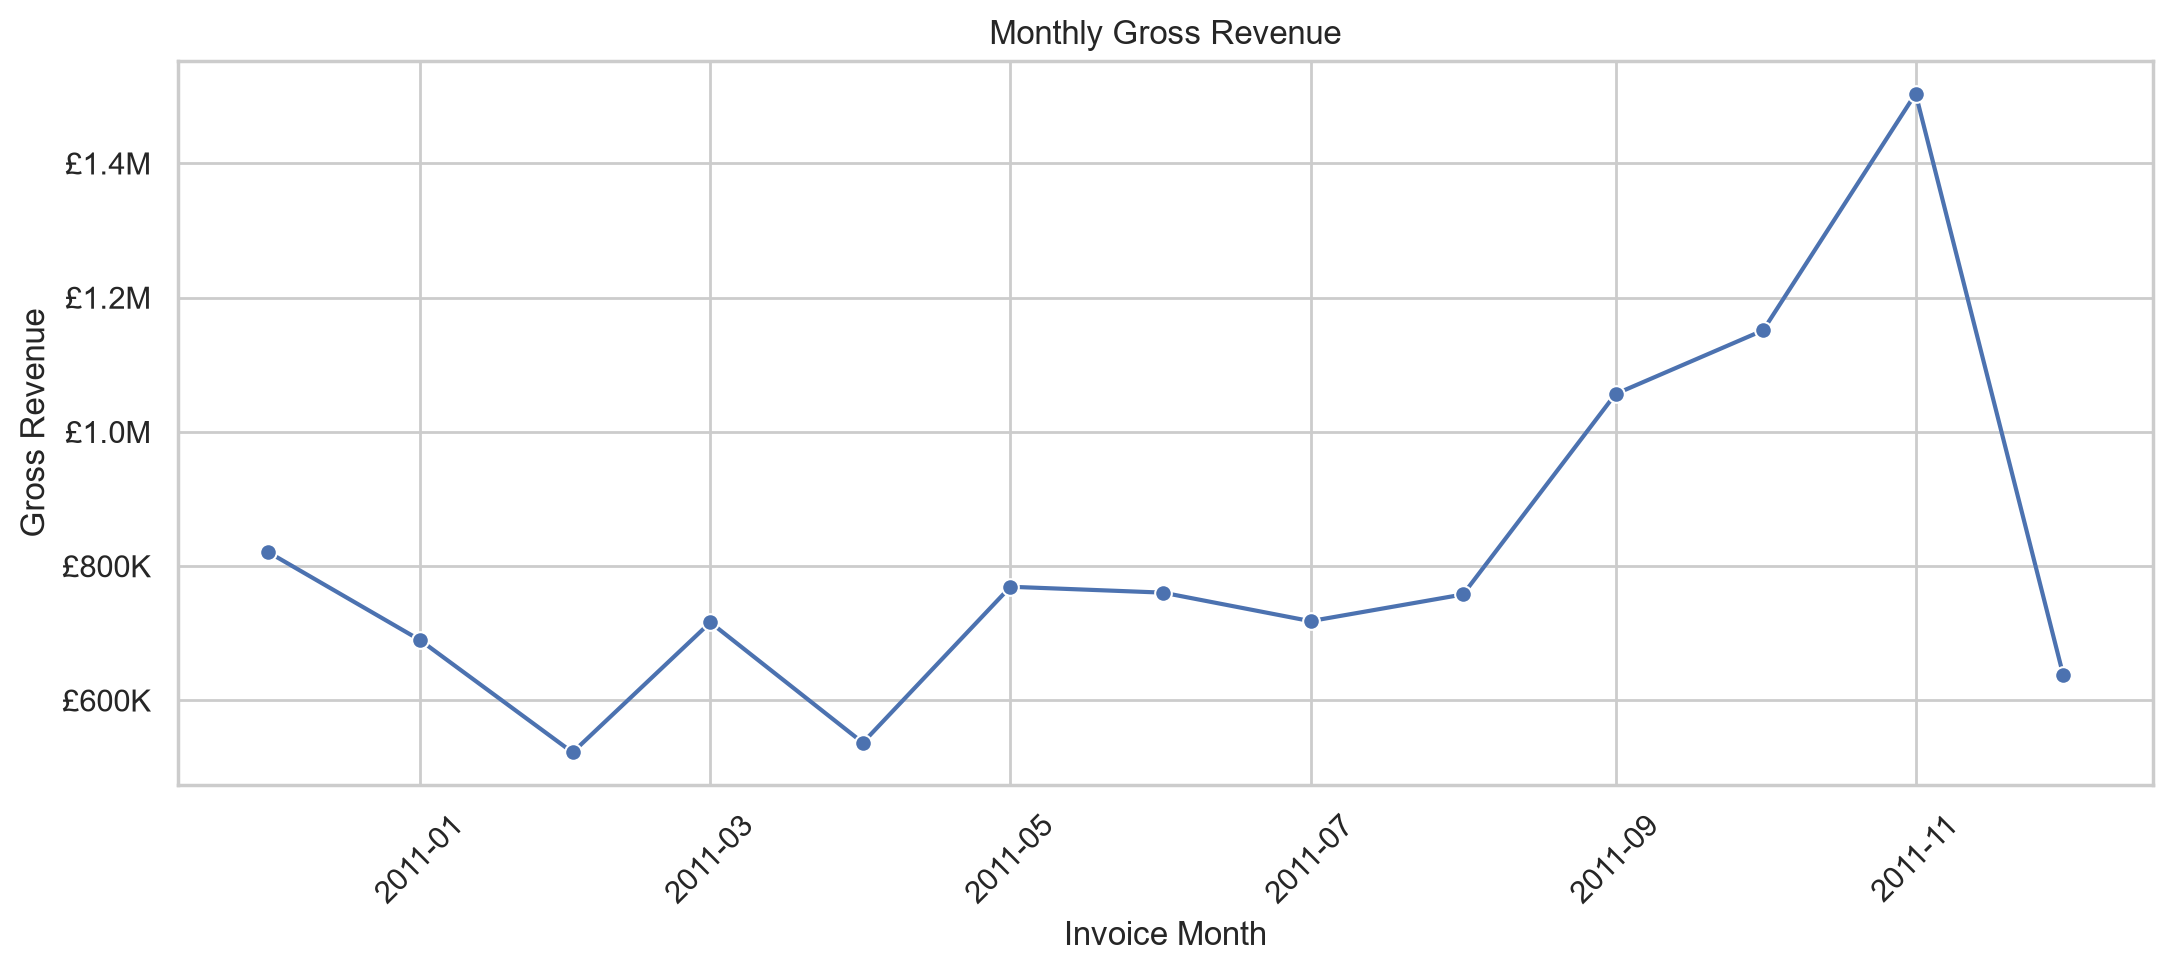
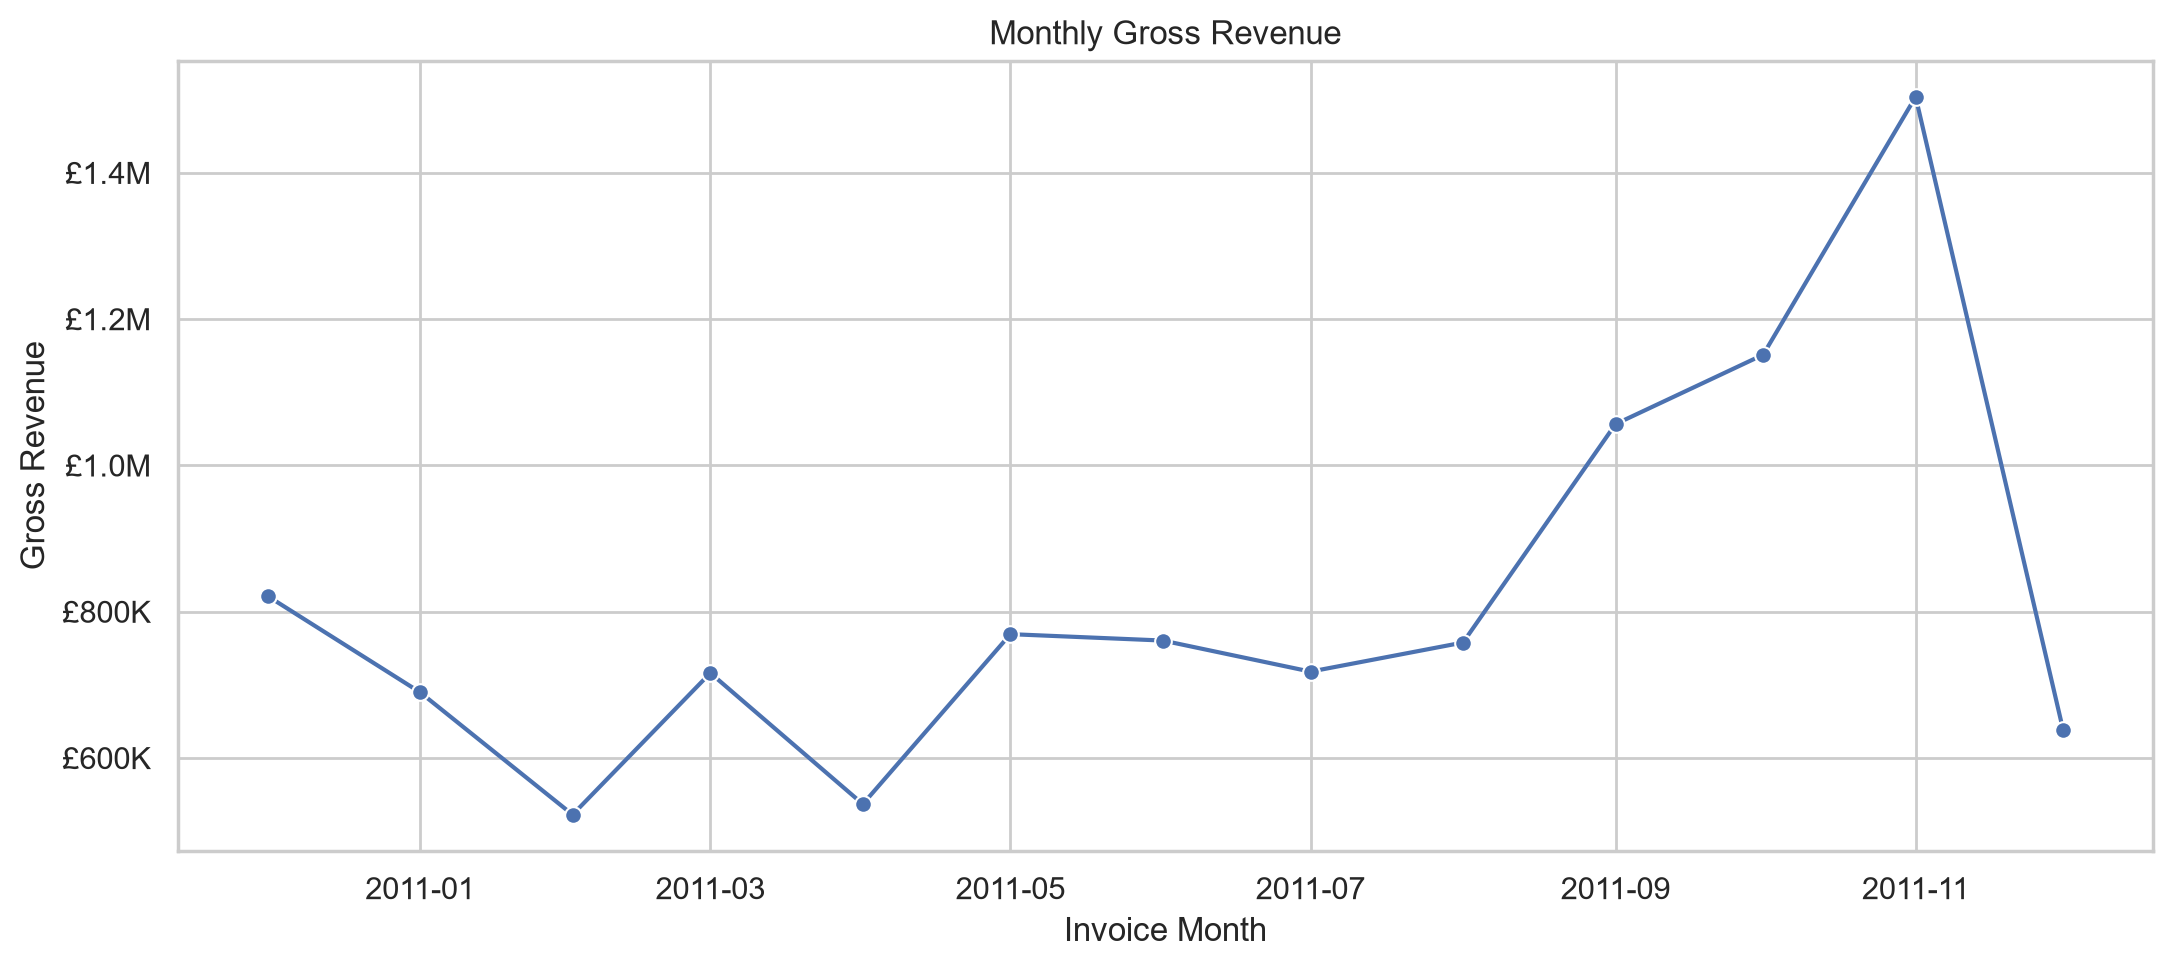
docs: finalize retail analytics portfolio project

diff --git a/README.md b/README.md
@@ -2,53 +2,104 @@
 
 ## Project Overview
 
-This project uses Python to analyze a retail sales dataset and find useful business insights.
+This project uses Python to analyze an online retail dataset and identify useful business insights.
 
-The main tasks include data cleaning, sales analysis, data visualization, and customer segmentation. The project also helps me practice using Pandas, Matplotlib, Seaborn, Git, and GitHub.
+The analysis covers data auditing, data cleaning, business KPI calculation, visualization, and RFM customer segmentation. The project also demonstrates practical use of Pandas, NumPy, Matplotlib, Seaborn, Jupyter Notebook, Git, and GitHub.
 
 ## Business Questions
 
-This project aims to answer:
+This project aims to answer the following questions:
 
 1. How does revenue change over time?
 2. Which products generate the most revenue?
-3. Which countries generate the most sales?
+3. Which countries generate the most revenue?
 4. Who are the highest-value customers?
-5. What is the average order value?
+5. What is the average completed order value?
 6. Are there any patterns in cancellations or returns?
-7. Which customer groups should the business focus on?
+7. Which customer groups should the business prioritize?
 
 ## Dataset
 
-The project uses the Online Retail dataset from the UCI Machine Learning Repository.
+The project uses the **Online Retail dataset** from the UCI Machine Learning Repository.
 
 The dataset includes:
 
-* Invoice number
-* Product code
-* Product description
-* Quantity
-* Invoice date
-* Unit price
-* Customer ID
-* Country
+- Invoice number
+- Product code
+- Product description
+- Quantity
+- Invoice date
+- Unit price
+- Customer ID
+- Country
 
-The dataset should be downloaded separately and placed inside:
+The original dataset is not included in this repository. It should be downloaded separately and placed at:
 
 ```text
-data/raw/
+data/raw/Online Retail.xlsx
 ```
 
 ## Tools
 
-* Python
-* Pandas
-* Matplotlib
-* Seaborn
-* Jupyter Notebook
-* Visual Studio Code
-* Git
-* GitHub
+- Python
+- Pandas
+- NumPy
+- Matplotlib
+- Seaborn
+- Jupyter Notebook
+- Visual Studio Code
+- Git
+- GitHub
+
+## Project Workflow
+
+1. Audited the raw transaction data.
+2. Defined and applied data-cleaning rules.
+3. Separated valid completed sales from cancellations and returns.
+4. Created revenue and date-related features.
+5. Calculated overall and category-level business KPIs.
+6. Analyzed products, countries, orders, and customers.
+7. Created business-focused visualizations.
+8. Segmented known customers using RFM analysis.
+9. Produced business findings and recommendations.
+
+## Key Findings
+
+- The business generated **£10.64 million** from **19,960 completed orders**.
+- The average completed order value was **£533.17**.
+- **November 2011** recorded the highest monthly gross revenue.
+- The **United Kingdom** was the largest market and generated the majority of total revenue.
+- **DOTCOM POSTAGE** was the highest-revenue recorded item, although it appears to represent a service charge rather than a physical retail product.
+- **Champions** were the highest-revenue RFM customer segment.
+- **At Risk customers generated 11.78% of known-customer revenue**, making them an important group for reactivation campaigns.
+
+## Visualizations
+
+### Monthly Revenue
+
+![Monthly revenue](reports/figures/monthly_revenue.png)
+
+### Revenue by Customer Segment
+
+![Revenue by customer segment](reports/figures/revenue_by_segment.png)
+
+## Business Recommendations
+
+1. Retain Champions and Loyal Customers through personalized benefits, loyalty rewards, and early-access offers.
+2. Prioritize high-value At Risk customers for targeted reactivation campaigns because they still contribute **11.78% of known-customer revenue**.
+3. Encourage Potential Loyalists and New Customers to place another order through product recommendations and second-purchase incentives.
+4. Monitor dependence on the United Kingdom and investigate growth opportunities in other international markets.
+5. Review product rankings after separating physical products from postage and service-related items.
+6. Investigate cancellation and return patterns by product, country, and customer group.
+
+## Limitations
+
+- The dataset represents one historical online retailer.
+- Product cost and profit-margin information is unavailable, so the project analyzes revenue rather than profit.
+- Customers without customer IDs could not be included in customer segmentation.
+- Some recorded items, such as postage charges, may not represent physical products.
+- The first and final months may contain partial data.
+- RFM segmentation describes historical behavior and does not predict future purchases.
 
 ## Project Structure
 
@@ -58,60 +109,83 @@ retail-sales-insights/
 │   ├── raw/
 │   └── processed/
 ├── notebooks/
+│   ├── 01_data_audit.ipynb
+│   ├── 02_data_cleaning.ipynb
+│   ├── 03_business_analysis.ipynb
+│   ├── 04_visualization.ipynb
+│   └── 05_customer_segmentation.ipynb
 ├── reports/
 │   ├── figures/
-│   └── tables/
+│   ├── tables/
+│   └── executive_summary.md
 ├── src/
+│   ├── clean_data.py
+│   ├── analysis.py
+│   ├── visualize.py
+│   └── segmentation.py
 ├── .gitignore
 ├── README.md
 └── requirements.txt
 ```
 
-## Planned Analysis
+## How to Run
 
-The project will include:
+### 1. Clone the repository
 
-* Checking missing values and duplicate records
-* Cleaning and preparing the dataset
-* Creating revenue and date-related columns
-* Calculating important sales KPIs
-* Analyzing products, countries, and customers
-* Creating charts to show important trends
-* Segmenting customers using RFM analysis
-* Writing business findings and recommendations
+```bash
+git clone https://github.com/YOUR_USERNAME/retail-sales-insights.git
+cd retail-sales-insights
+```
 
-## Current Progress
+Replace `YOUR_USERNAME` with your actual GitHub username.
 
-* [x] Created the project structure
-* [x] Created the virtual environment
-* [x] Installed the required libraries
-* [x] Created the GitHub repository
-* [x] Completed the data audit
-* [x] Cleaned the dataset
-* [x] Calculated business KPIs
-* [x] Created visualizations
-* [x] Completed customer segmentation
-* [ ] Written the final findings
+### 2. Create a virtual environment
 
-## Visualizations
+```bash
+python -m venv .venv
+```
 
-The current analysis includes:
+### 3. Activate the virtual environment
 
-- Monthly gross revenue
-- Monthly completed orders
-- Top countries by revenue
-- Top products by revenue
-- Order-value distribution
-- Customer-revenue distribution
+On Windows PowerShell:
 
-## Customer Segmentation
+```powershell
+.\.venv\Scripts\Activate.ps1
+```
 
-Known customers are grouped using RFM analysis:
+On Windows Command Prompt:
 
-- Recency: time since the latest purchase
-- Frequency: number of completed orders
-- Monetary: total customer revenue
+```cmd
+.venv\Scripts\activate
+```
 
-The segments include champions, loyal customers, potential loyalists, new
-customers, at-risk customers, hibernating customers, and customers needing
-attention.
+### 4. Install the required packages
+
+```bash
+python -m pip install -r requirements.txt
+```
+
+### 5. Add the dataset
+
+Place the downloaded Excel dataset at:
+
+```text
+data/raw/Online Retail.xlsx
+```
+
+### 6. Run the project pipeline
+
+Run the scripts in order:
+
+```bash
+python src/clean_data.py
+python src/analysis.py
+python src/visualize.py
+python src/segmentation.py
+```
+
+The notebooks can also be opened and run in numerical order.
+
+## Project Status
+
+The project is complete.

diff --git a/reports/executive_summary.md b/reports/executive_summary.md
@@ -21,35 +21,35 @@ analysis only included transactions with known customer IDs.
 - Completed orders: **19,960**
 - Known customers: **4,338**
 - Average order value: **533.17**
-- Cancellation rate: **15.69%**
+- Cancellation rate: **1.73%**
 
 ## Main Sales Findings
 1. **Overall Performance:**
-The business shows strong performance! The dataset records a total revenue of £10,642,110.80 
-generated from 19,962 completed orders, resulting in a solid Average Order Value (AOV) of 
-£543.11.
+The business shows strong performance! The dataset records a total revenue of **£10,642,110.80** 
+generated from **19,962** completed orders, resulting in a solid Average Order Value (AOV) of 
+**£543.11.**
 
 2. **Monthly Performance:**
-November 2011 stands out as the peak month for sales. However, the data for the very first and 
+**November 2011** stands out as the peak month for sales. However, the data for the very first and 
 last months appears to be incomplete. These periods should be excluded before comparing monthly 
 trends to avoid skewed results.
 
 3. **Market Concentration:**
-The United Kingdom drives the vast majority of the sales. This indicates a high dependence on a 
+**The United Kingdom** drives the vast majority of the sales. This indicates a high dependence on a 
 single market, exposing the business to potential regional risks.
 
 4. **Product Performance:**
-Interestingly, the top revenue generator isn't a physical item, but DOTCOM POSTAGE (shipping fees). 
+Interestingly, the top revenue generator isn't a physical item, but **DOTCOM POSTAGE** (shipping fees). 
 This finding also highlights that products with the highest sales volume do not always bring in the 
 most money for the company.
 
 5. **Customer Concentration:**
-The Top 10 VIP customers account for 10.82% of the known customer revenue. This reflects a moderate 
+The Top 10 VIP customers account for **10.82%** of the known customer revenue. This reflects a moderate 
 dependence on a small buyer group, suggesting that the company should maintain a targeted retention 
 strategy to keep these key clients engaged.
 
 6. **Cancellations:**
-The overall cancellation rate is notably low at just 1.73%. As a next analytical step, it would be 
+The overall cancellation rate is notably low at just **1.73%.** As a next analytical step, it would be 
 highly beneficial to drill down and see if these canceled invoices are tied to specific products or 
 countries to identify any root causes.
 